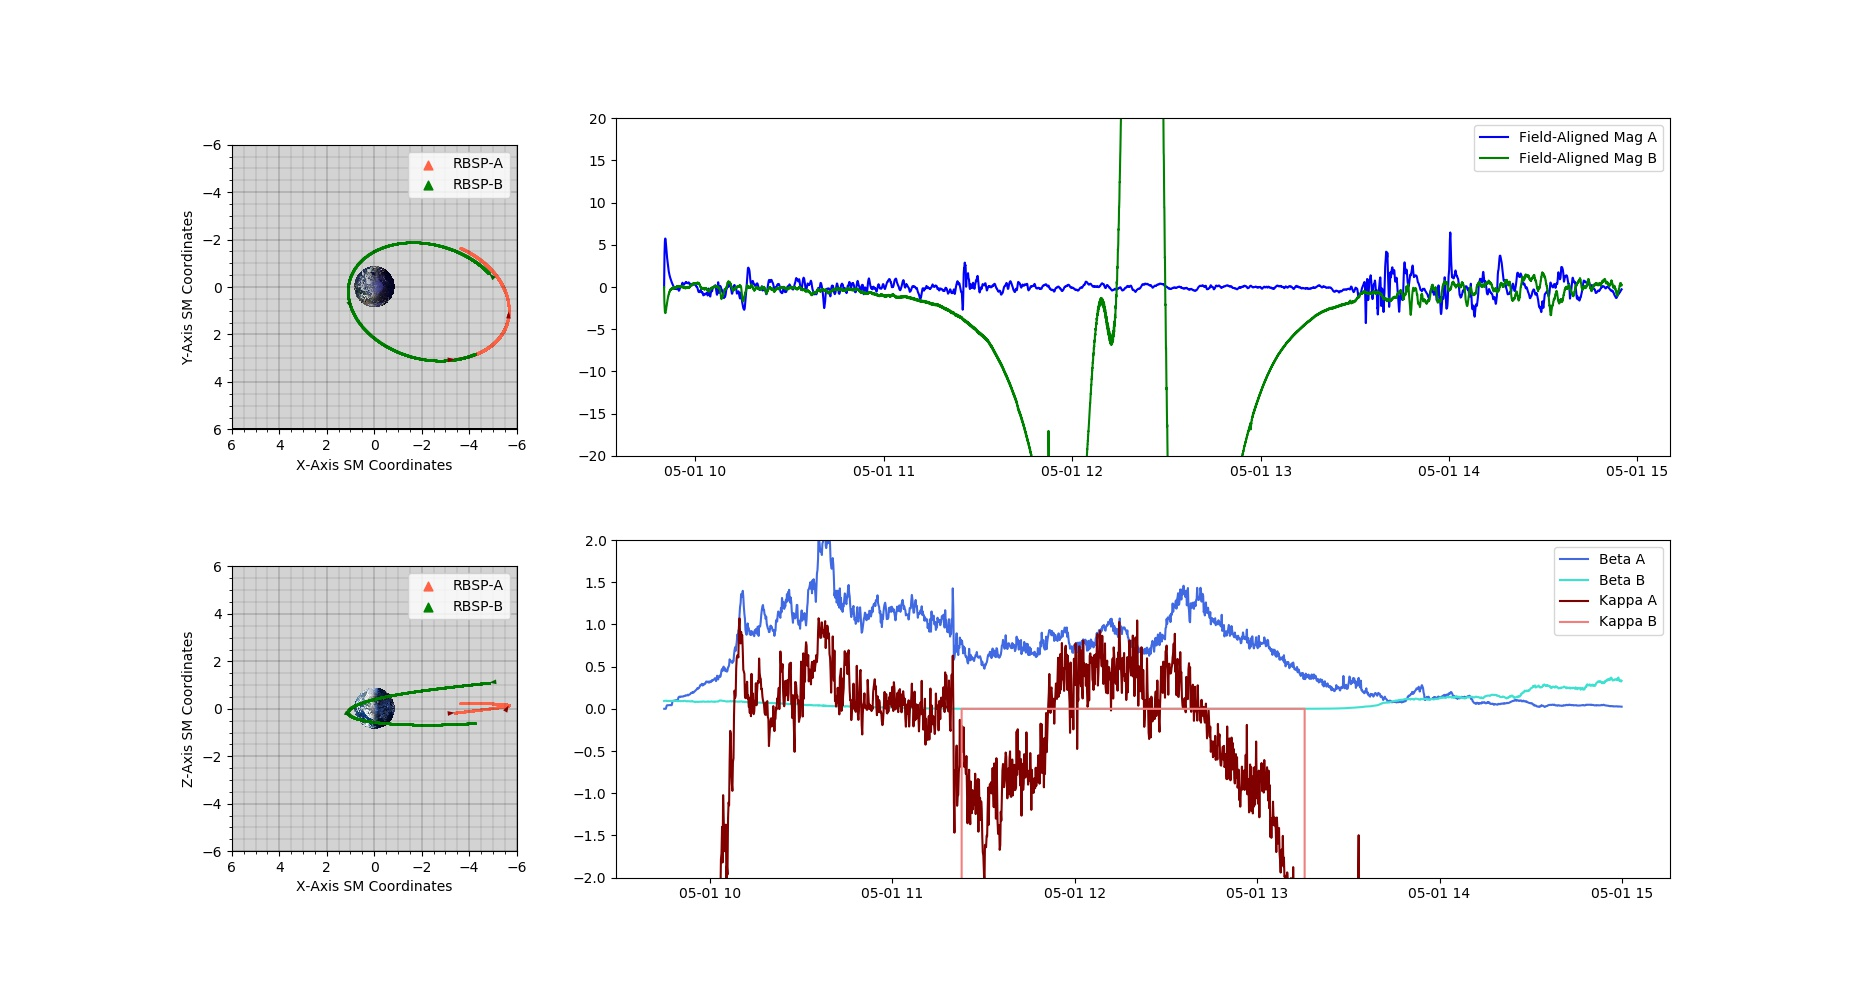
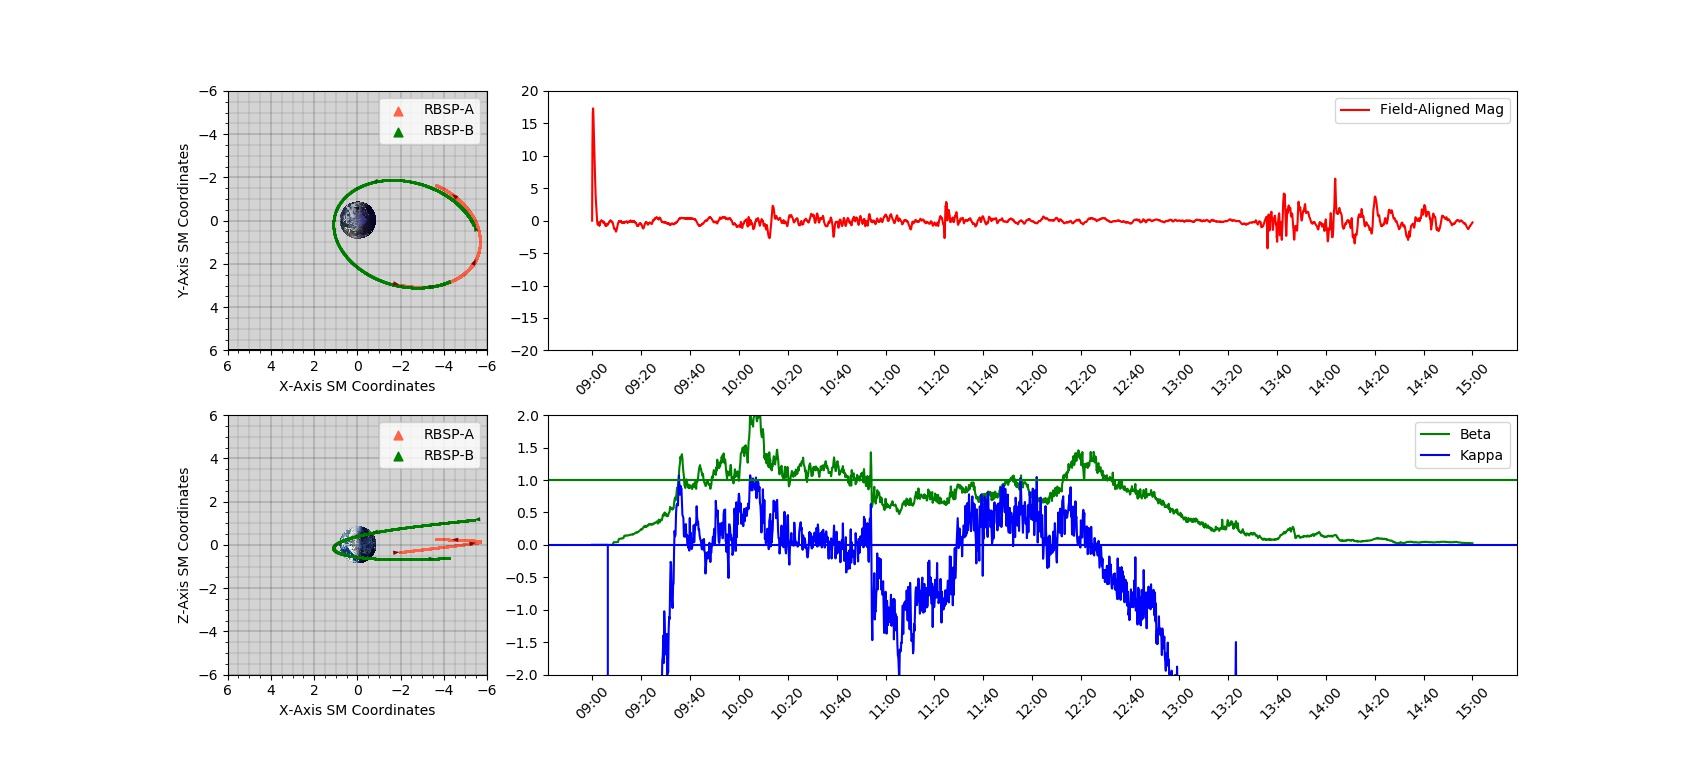
Version 4 of plots

diff --git a/EventPlotFunctions.py b/EventPlotFunctions.py
@@ -20,10 +20,14 @@ import os
 def freq_to_Period(value, tick_number):
     return '{0:.4g}'.format(1/value)
 
+#def fmt(x, pos):
+#    a, b = '{:.1e}'.format(x).split('e')
+#    b = int(b)
+#    return r'${}*10^{{{}}}$'.format(a, b)
+    
 def fmt(x, pos):
-    a, b = '{:.0e}'.format(x).split('e')
-    b = int(b)
-    return r'${}*10^{{{}}}$'.format(a, b)
+    y = x/1e9
+    return y
 
 def FAUV_ToMagDict(magDict):
     '''
@@ -41,7 +45,6 @@ def FAUV_ToMagDict(magDict):
         magDict['FAUV'][i,2,:] = (np.cross(magDict['FAUV'][i,0,:], magDict['FAUV'][i,1,:])/
                                   np.linalg.norm(np.cross(magDict['FAUV'][i,0,:], magDict['FAUV'][i,1,:])))
 
-#
 def get_field_Aligned_Mag(magDict):
     '''
     Takes a dict from the EMFISIS data and uses FAUV_ToMagDict, as well as adding the field values in the field-aligned 
@@ -95,17 +98,13 @@ def get_Power_Spectra_Subplot(fig, ax, magDict, N, T, window, coord='FieldAligne
       bbox=dict(facecolor='white', alpha=0.7))
     ax.set_facecolor('black')
     newFreq = magDict['Frequency'][3:int(len(magDict['Frequency'])/2)]
-    y,x = np.meshgrid(newFreq, mdates.date2num(magDict['FFTEpoch']))
+    EpBin = np.linspace(0, 1, len(magDict['FFTEpoch']))
+    y,x = np.meshgrid(newFreq, EpBin)
     newPower = (1/T)*np.log(np.abs(magDict['FFT_Raw'][coordNumber][:,3:int(len(magDict['Frequency'])/2)])**2)
     im = ax.pcolormesh(x, y, newPower, cmap='RdBu_r')
     ax.set_ylim(np.max(newFreq), np.min(newFreq))
-#    Hours = mdates.HourLocator()   
-#    Minutes = mdates.MinuteLocator()
     ax.set_yscale('log')
     ax.yaxis.set_major_formatter(plt.FuncFormatter(freq_to_Period))
-#    ax.xaxis.set_major_locator(Hours)
-    ax.xaxis.set_major_formatter(mdates.DateFormatter('%H:%M'))
-#    ax.set_xticks(datesNum[::int(np.ceil(len(magDict['Epoch'])/15))])
     fig.colorbar(im, ax=ax, fraction = .05, pad = .07)   
   
 def get_Beta_LinePlot(ax, betaDict):
@@ -123,20 +122,16 @@ def get_Particle_Heatmap_SubPlot_EnergyBinned(fig, ax, tofDict):
             bbox=dict(facecolor='white', alpha=0.7))
     ax.set_facecolor('black')
     energy = np.linspace(10, 1000, 14)
-    x,y = np.meshgrid(tofDict['Epoch'], energy)
+    tofEpBin = np.linspace(0, 1, len(tofDict['Epoch']))
+    x,y = np.meshgrid(tofEpBin, energy)
     im = ax.pcolormesh(x, y, np.log(enBin.transpose()), cmap='jet', vmax=4*(np.log(enBin)).std())
-    span = np.ceil(int(tofDict['Epoch'][len(tofDict['Epoch'])-1].timestamp() - tofDict['Epoch'][0].timestamp())/11)
-    #Hours = mdates.HourLocator()   
-    #Minutes = mdates.MinuteLocator()
-    #ax.xaxis.set_major_locator(Minutes)
-    ax.xaxis.set_major_formatter(mdates.DateFormatter('%H:%M'))
-    ax.set_xticks(tofDict['Epoch'][::int(span/15)])
     fig.colorbar(im, ax=ax, fraction = .05, pad = .07)
     ax.set_yscale('linear')
 
 def get_ParticleDensity_LinePlot(ax, tofDict):
     #Plots particle densities from a tofDict provided by Dgar or a TOF cdf
-    ax.plot(tofDict['Epoch'], tofDict['FPDU_Density'], color='maroon')  
+    tofEpBin = np.linspace(0, 1, len(tofDict['Epoch']))
+    ax.plot(tofEpBin, tofDict['FPDU_Density'], color='maroon')  
 
 def get_Particle_Heatmap_AngleBinned(fig, ax, tofDict):
     '''
@@ -148,18 +143,15 @@ def get_Particle_Heatmap_AngleBinned(fig, ax, tofDict):
             transform=ax.transAxes, bbox=dict(facecolor='white', alpha=0.7))
     ax.set_facecolor('black')
     angle = tofDict['PA_Midpoint'][0,:]
-    x,y = np.meshgrid(tofDict['Epoch'], angle)
+    tofEpBin = np.linspace(0, 1, len(tofDict['Epoch']))
+    x,y = np.meshgrid(tofEpBin, angle)
     im = ax.pcolormesh(x, y, angleBin.transpose(), cmap='jet', vmin=0, vmax=4*angleBin.std())
-    span = np.ceil(int(tofDict['Epoch'][len(tofDict['Epoch'])-1].timestamp() - tofDict['Epoch'][0].timestamp())/11)
-    Hours = mdates.HourLocator()   
-    ax.xaxis.set_major_locator(Hours)
-    ax.xaxis.set_major_formatter(mdates.DateFormatter('%H:%M'))
-    ax.set_xticks(tofDict['Epoch'][::int(span/15)])
     ax.set_yscale('linear')
     fig.colorbar(im, ax=ax, fraction = .05, pad = .07, format=ticker.FuncFormatter(fmt))
 
 def get_Kappa_Lineplot(ax, kappaDict):
-    ax.plot(kappaDict['Epoch'], kappaDict['Kappa'], color='blue', label='Kappa') 
+    tofEpBin = np.linspace(0, 1, len(kappaDict['Epoch']))
+    ax.plot(tofEpBin, kappaDict['Kappa'], color='blue', label='Kappa') 
     
 def get_Position_Plot_For_Span(ax1, ax2, strtDt, endDt):
     magDict = rip.get_CDF_Dict('Mag_1Sec_A', strtDt, endDt)

diff --git a/theShop.py b/theShop.py
@@ -18,36 +18,28 @@ import EventPlotFunctions as eve
 from scipy.signal import blackmanharris
 import numpy as np
 
+diff = 180
 date = dt.datetime(2013,5,1,12,0,0)
-strtDate = date - dt.timedelta(minutes=135)
-stpDate = date + dt.timedelta(minutes=180) 
+strtDate = date - dt.timedelta(minutes=diff)
+stpDate = date + dt.timedelta(minutes=diff) 
 
-magDictA = rip.get_CDF_Dict('Mag_1Sec_A', strtDate, stpDate)
-magDictB = rip.get_CDF_Dict('Mag_1Sec_B', strtDate, stpDate)
-
-betaDictA = dbFun.get_Beta_Total_For_Span('TOFxEH_A', strtDate, stpDate)
-betaDictB = dbFun.get_Beta_Total_For_Span('TOFxEH_B', strtDate, stpDate)
-
-kappaDictA = dbFun.get_Kappa_For_Span('TOFxEH_A', strtDate, stpDate)
-kappaDictB = dbFun.get_Kappa_For_Span('TOFxEH_B', strtDate, stpDate)
+magDict = rip.get_CDF_Dict('Mag_1Sec_A', strtDate, stpDate)
+betaDict = dbFun.get_Beta_Total_For_Span('TOFxEH_A', strtDate, stpDate)
+kappaDict = dbFun.get_Kappa_For_Span('TOFxEH_A', strtDate, stpDate)
 
 
-eve.FAUV_ToMagDict(magDictA)
-eve.get_field_Aligned_Mag(magDictA)
-eve.takeFFT_EMFISISMag(1, 2048, blackmanharris(2048), magDictA)
-eve.mag_AverageRemoved(600, magDictA)
+
+eve.FAUV_ToMagDict(magDict)
+eve.get_field_Aligned_Mag(magDict)
+eve.takeFFT_EMFISISMag(1, 2048, blackmanharris(2048), magDict)
+eve.mag_AverageRemoved(600, magDict)
     
-eve.FAUV_ToMagDict(magDictB)
-eve.get_field_Aligned_Mag(magDictB)
-eve.takeFFT_EMFISISMag(1, 2048, blackmanharris(2048), magDictB)
-eve.mag_AverageRemoved(600, magDictB)
 
 
 for k in range(0,3):
-    magDictA['MagFA_NoBack'][:,k] = eve.lpf(magDictA['MagFA_NoBack'][:,k])
-    magDictB['MagFA_NoBack'][:,k] = eve.lpf(magDictB['MagFA_NoBack'][:,k])   
-    magDictA['MagFA_NoBack'][:,k] = eve.hpf(magDictA['MagFA_NoBack'][:,k])
-    magDictB['MagFA_NoBack'][:,k] = eve.hpf(magDictB['MagFA_NoBack'][:,k])      
+    magDict['MagFA_NoBack'][:,k] = eve.lpf(magDict['MagFA_NoBack'][:,k]) 
+    magDict['MagFA_NoBack'][:,k] = eve.hpf(magDict['MagFA_NoBack'][:,k])
+    
     
 gs = gridspec.GridSpec(2, 4)
 
@@ -57,20 +49,30 @@ ax3 = plt.subplot(gs[0:1, 1:])
 ax4 = plt.subplot(gs[1:2, 1:])
 
 eve.get_Position_Plot_For_Span(ax1, ax2, strtDate, stpDate)
-
-ax3.plot(magDictA['Epoch_Avg'], magDictA['MagFA_NoBack'][:,0], color = 'blue', label='Field-Aligned Mag A')
-ax3.plot(magDictB['Epoch_Avg'], magDictB['MagFA_NoBack'][:,0], color = 'green', label='Field-Aligned Mag B')
+epBin1 = np.linspace(0,1, len(magDict['Epoch_Avg']))
+ax3.plot(epBin1, magDict['MagFA_NoBack'][:,0], color = 'red', label='Field-Aligned Mag')
 ax3.set_ylim(-20,20)
 ax3.legend()
 #ax1.set_facecolor('black')
 
-
-ax4.plot(betaDictA['Epoch'], betaDictA['Total'], color='royalblue', label='Beta A')
-ax4.plot(betaDictB['Epoch'], betaDictB['Total'], color='turquoise', label='Beta B')
-ax4.plot(kappaDictA['Epoch'], kappaDictA['Kappa'], color='maroon', label='Kappa A') 
-ax4.plot(kappaDictB['Epoch'], kappaDictB['Kappa'], color='lightcoral', label='Kappa B') 
+epBin2 = np.linspace(0,1, len(betaDict['Epoch']))
+ax4.plot(epBin2, betaDict['Total'], color='green', label='Beta')
+ax4.plot(epBin2, kappaDict['Kappa'], color='blue', label='Kappa') 
 ax4.set_ylim(-2,2)
 ax4.legend()
 
-gs.update(hspace=.25, wspace=.35)
+gs.update(hspace=.25, wspace=.15)
 
+ticks = []
+locs = []
+ticksep = 2*diff/18
+for i in range(0, 19):
+    ticks.append((strtDate + dt.timedelta(minutes = i*ticksep)).strftime('%H:%M'))
+    locs.append(i*(1/18))
+
+ax3.set_xticks(locs)
+ax3.set_xticklabels(ticks, rotation=45)
+ax4.set_xticks(locs)
+ax4.set_xticklabels(ticks, rotation=45)
+ax4.axhline(0, color='blue', linestyle='--')
+ax4.axhline(1, color='green', linestyle='--')

diff --git a/EventPlots.py b/EventPlots.py
@@ -16,39 +16,49 @@ import EventPlotFunctions as eve
 ========================================================================================================================
 Code section which retrieves a dictionary from the mySQL database on Dgar at NJIT
 '''
+diff = 180
 date = dt.datetime(2013,5,1,12,0,0)
-strtDate = date - dt.timedelta(minutes=360)
-stpDate = date + dt.timedelta(minutes=360) 
-#==============================================================================
+strtDate = date - dt.timedelta(minutes=diff)
+stpDate = date + dt.timedelta(minutes=diff) 
+#=======================================================================================================================
 magDict = rip.get_CDF_Dict('Mag_1Sec_A', strtDate, stpDate)
 tofDict = rip.get_CDF_Dict('TOFxEH_A', strtDate, stpDate)
 tofDict['FPDU'][np.where(tofDict['FPDU']<0)] = 0
 betaDict = dbFun.get_Beta_Total_For_Span('TOFxEH_A', strtDate, stpDate)
 kappaDict = dbFun.get_Kappa_For_Span('TOFxEH_A', strtDate, stpDate)
 
-
 fig, (ax1, ax2, ax3) = plt.subplots(3, 1, sharex=True, sharey=False, figsize=(17,12), dpi=166) 
-ax1T = ax1.twinx()
 ax2T = ax2.twinx()
-ax3T = ax3.twinx()
 pos1 = list(ax1.get_position().bounds)
 fig.subplots_adjust(hspace=0.04)
-#===============================================================================================================
+#=======================================================================================================================
 T = 1
 N = 2048
 window = blackmanharris(N)
-ax1.set_ylabel('Period [s]', labelpad = 11)
 eve.get_Power_Spectra_Subplot(fig, ax1, magDict, N, T, window)
+ax1.text(-.08, 0.5, 'Period [s]', horizontalalignment='center', verticalalignment='center', transform=ax1.transAxes, 
+         rotation='vertical')
 
-#ax1T.set_ylabel('Beta Value', rotation=270, labelpad=11)
-    
-
-ax2.set_ylabel('Energy [keV]', labelpad=11)
+ax2.text(-.08, 0.6, 'Energy [keV]', horizontalalignment='center', verticalalignment='center', transform=ax2.transAxes, 
+         rotation='vertical')
 eve.get_Particle_Heatmap_SubPlot_EnergyBinned(fig, ax2, tofDict)  
 
 ax2T.set_ylabel('Particle Density', rotation = 270, labelpad = 11)
 eve.get_ParticleDensity_LinePlot(ax2T, tofDict)
 
-ax3.set_ylabel('Angle [degrees]', labelpad=11)  
+ax3.text(-.08, 0.6, 'Angle [degrees]', horizontalalignment='center', verticalalignment='center', transform=ax3.transAxes, 
+         rotation='vertical')
 eve.get_Particle_Heatmap_AngleBinned(fig, ax3, tofDict)
+
+ticks = []
+locs = []
+ticksep = 2*diff/18
+for i in range(0, 19):
+    ticks.append((strtDate + dt.timedelta(minutes = i*ticksep)).strftime('%H:%M'))
+    locs.append(i*(1/18))
+
+ax3.set_xticks(locs)
+ax3.set_xticklabels(ticks, rotation=45)
+    
+
 

diff --git a/magPlots.py b/magPlots.py
@@ -15,12 +15,14 @@ from scipy.signal import blackmanharris
 import numpy as np
 
 date = dt.datetime(2013,5,1,12,0,0)
-strtDate = date - dt.timedelta(minutes=360)
-stpDate = date + dt.timedelta(minutes=360) 
+strtDate = date - dt.timedelta(minutes=180)
+stpDate = date + dt.timedelta(minutes=180) 
 magDict = rip.get_CDF_Dict('Mag_1Sec_A', strtDate, stpDate)
 betaDict = dbFun.get_Beta_Total_For_Span('TOFxEH_A', strtDate, stpDate)
 kappaDict = dbFun.get_Kappa_For_Span('TOFxEH_A', strtDate, stpDate)
-  
+
+eve.FAUV_ToMagDict(magDict)
+eve.get_field_Aligned_Mag(magDict)
 eve.mag_AverageRemoved(600, magDict)
    
 gs = gridspec.GridSpec(3, 4)
@@ -32,7 +34,7 @@ ax3T = ax3.twinx()
 
 eve.get_Position_Plot_For_Span(ax1, ax2, strtDate, stpDate)
 
-eve.FAUV_ToMagDict(magDict)
+
 eve.takeFFT_EMFISISMag(1, 2048, blackmanharris(2048), magDict)
 
 l1 = ax3.plot(magDict['Epoch_Avg'], magDict['MagFA_NoBack'][:,0], color = 'red', label='Field-Aligned Mag')
